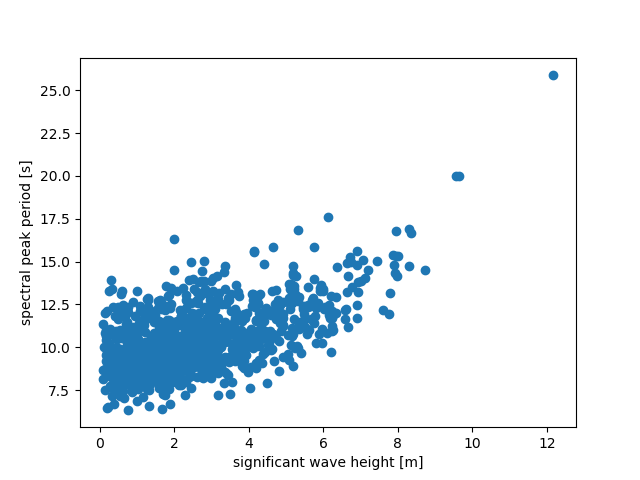
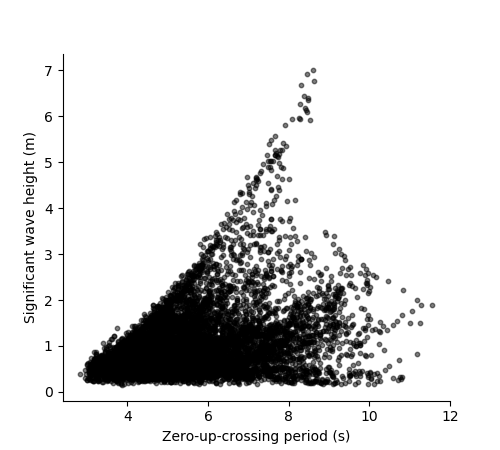
Improve readme using the new example.

Changed region(s): [[0.03, 0.0933, 0.93, 0.9956], [0.57, 0.1556, 0.63, 0.28], [0.69, 0.3422, 0.72, 0.3733]]

diff --git a/examples/fit_distribution_similar_to_docs.py b/examples/fit_distribution_similar_to_docs.py
@@ -11,7 +11,6 @@ from viroconcom.plot import SamplePlotData, plot_sample, plot_marginal_fit, \
 sample_0, sample_1, label_hs, label_tz = \
     read_ecbenchmark_dataset('datasets/1year_dataset_A.txt')
 
-
 fig, ax = plt.subplots(1, 1, figsize=(5, 4.5))
 sample_plot_data = SamplePlotData(sample_1, sample_0)
 plot_sample(sample_plot_data, ax)

diff --git a/docs/fitting.rst b/docs/fitting.rst
@@ -9,7 +9,7 @@ This module fitting_ implements the possibility to fit a probabilistc model to m
 To fit a model structure to a dataset, we need to build an object of the class ``Fit`` in this module.
 Exemplary call::
 
-    example_fit = Fit((data_1, data_2), (dist_description_0, dist_description_1), timeout=None)
+    example_fit = Fit((sample_0, sample_1), (dist_description_0, dist_description_1), timeout=None)
 
 It is important that the parameter ``samples`` is in the form (sample_0, sample_1, ...).
 Each sample is a collection of data from type *list* and also all samples have the same length. The parameter ``dist_descriptions``
@@ -43,15 +43,17 @@ The following dependence functions are available (keyword and meaning):
 Example for a ``dist_description``, that could represent the marginal
 distribution of significant wave height::
 
-	dist_description_0 = {'name': 'Weibull_Exp',
-	                      'dependency': (None, None, None)}
+    dist_description_0 = {'name': 'Weibull_Exp',
+                          'width_of_intervals': 1}
 
 Example for a ``dist_description``, that could represent the conditonal
 distribution of zero-up-crossiong period::
 
-	dist_description_1 = {'name': 'Lognormal',
-	                      'dependency': (0, None, 0),
-				          'functions': ('power3', None, 'exp3')}
+    dist_description_1 = {'name': 'Lognormal_SigmaMu',
+                          'dependency': (0,  None, 0),
+                          'functions': ('asymdecrease3', None, 'lnsquare2'),
+                          'min_datapoints_for_fit': 50
+                          }
 
 If Fit() is finished, example_fit, will have the attribute ``mul_var_dist``
 that is an object of ``MultivariateDistribution``, holding the fitted joint
@@ -71,27 +73,21 @@ Tp ::
 
     import matplotlib.pyplot as plt
     import numpy as np
-    import scipy.stats as sts
 
+    from viroconcom.read_write import read_ecbenchmark_dataset
     from viroconcom.fitting import Fit
     from viroconcom.contours import IFormContour
+    from viroconcom.plot import SamplePlotData, plot_sample, plot_marginal_fit, \
+        plot_dependence_functions, plot_contour
 
+    sample_0, sample_1, label_hs, label_tz = \
+        read_ecbenchmark_dataset('datasets/1year_dataset_A.txt')
 
-    prng = np.random.RandomState(42)
-
-    # Draw 10000 samples from a Weibull distribution with shape=1.5 and scale=3,
-    # which represents significant wave height.
-    sample_0 = prng.weibull(1.5, 10000)*3
-
-    # Let the second sample, which represents spectral peak period increase
-    # with significant wave height and follow a Lognormal distribution with
-    # mean=2 and sigma=0.2
-    sample_1 = [0.1 + 1.5 * np.exp(0.2 * point) +
-                prng.lognormal(2, 0.2) for point in sample_0]
-
-    plt.scatter(sample_0, sample_1)
-    plt.xlabel('Significant wave height (m)')
-    plt.ylabel('Spectral peak period (s)')
+    fig, ax = plt.subplots(1, 1, figsize=(5, 4.5))
+    sample_plot_data = SamplePlotData(sample_1, sample_0)
+    plot_sample(sample_plot_data, ax)
+    plt.xlabel('Zero-up-crossing period (s)')
+    plt.ylabel('Significant wave height (m)')
     plt.show()
 
 The code snipped will create this plot:
@@ -105,43 +101,25 @@ The code snipped will create this plot:
 Now we describe the type of multivariate distribution that we want to fit to this data ::
 
     dist_description_0 = {'name': 'Weibull_Exp',
-                          'dependency': (None, None, None),
-                          'width_of_intervals': 0.5}
-    dist_description_1 = {'name': 'Lognormal',
-                          'dependency': (None, None, 0),
-                          'functions': (None, None, 'exp3')}
+                          'width_of_intervals': 1}
+    dist_description_1 = {'name': 'Lognormal_SigmaMu',
+                          'dependency': (0,  None, 0),
+                          'functions': ('asymdecrease3', None, 'lnsquare2'),
+                          'min_datapoints_for_fit': 50
+                          }
 
-Based on this description, we can compute the fit ::
+Based on this description, we can compute the fit and save the two fitted
+distributions in dedicated variables ::
 
     my_fit = Fit((sample_0, sample_1), (dist_description_0, dist_description_1))
 
-Now, let us plot the fit for the first variable ::
+    fitted_hs_dist = my_fit.mul_var_dist.distributions[0]
+    fitted_tz_dist = my_fit.mul_var_dist.distributions[1]
 
-    # For panel A: use a histogram.
-    fig = plt.figure(figsize=(9, 4.5))
-    ax_1 = fig.add_subplot(121)
-    param_grid = my_fit.multiple_fit_inspection_data[0].scale_at
-    plt.hist(my_fit.multiple_fit_inspection_data[0].scale_samples[0], density=1,
-             label='sample')
-    shape = my_fit.mul_var_dist.distributions[0].shape(0)
-    scale = my_fit.mul_var_dist.distributions[0].scale(0)
-    plt.plot(np.linspace(0, 20, 100),
-             sts.weibull_min.pdf(np.linspace(0, 20, 100), c=shape, loc=0,
-                                 scale=scale),
-             label='fitted Weibull distribution')
-    plt.xlabel('significant wave height [m]')
-    plt.ylabel('probability density [-]')
-    plt.legend()
-    # For panel B: use a Q-Q plot.
-    ax_2 = fig.add_subplot(122)
-    sts.probplot(my_fit.multiple_fit_inspection_data[0].scale_samples[0],
-                 sparams=(shape, 0, scale), dist=sts.weibull_min, plot=plt)
-    ax_2.get_lines()[0].set_markerfacecolor('#1f77ba') # Adapt to v2.0 colors
-    ax_2.get_lines()[0].set_markeredgecolor('#1f77ba') # Adapt to v2.0 colors
-    ax_2.get_lines()[1].set_color('#ff7f02') # Adapt to v2.0 colors
-    plt.title("")
-    plt.xlabel('theoretical quantiles [m]')
-    plt.ylabel('data quantiles [m]')
+Now, let us plot the fit for the first variable using a QQ-plot ::
+
+    fig, ax = plt.subplots(1, 1, figsize=(5, 4.5))
+    plot_marginal_fit(sample_0, fitted_hs_dist, fig, ax, label='$h_s$ (m)', dataset_char='A')
     plt.show()
 
 
@@ -152,50 +130,17 @@ Now, let us plot the fit for the first variable ::
     Fit of the first variable, Hs.
 
 For our second variable, we need some more plots to inspect it properly.
-Let us start with the individual distributions, one for each Hs-interval ::
+Let us start with the marginal distributions that were fitted to Hs-intervals ::
 
-    fig = plt.figure(figsize=(10, 8))
-    ax_1 = fig.add_subplot(221)
-    title1 = ax_1.set_title('Tp-Distribution for 0≤Hs<2')
-    param_grid = my_fit.multiple_fit_inspection_data[1].scale_at
-    ax1_hist = ax_1.hist(my_fit.multiple_fit_inspection_data[1].scale_samples[0], density=1)
-    shape = my_fit.mul_var_dist.distributions[1].shape(0)
-    scale = my_fit.mul_var_dist.distributions[1].scale(param_grid[0])
-    ax1_plot = ax_1.plot(np.linspace(0, 20, 100), sts.lognorm.pdf(np.linspace(0, 20, 100), s=shape, scale=scale))
-
-    ax_2 = fig.add_subplot(222)
-    title2 = ax_2.set_title('Tp-Distribution for 2≤Hs<4')
-    ax2_hist = ax_2.hist(my_fit.multiple_fit_inspection_data[1].scale_samples[1], density=1)
-    shape = my_fit.mul_var_dist.distributions[1].shape(0)
-    scale = my_fit.mul_var_dist.distributions[1].scale(param_grid[1])
-    ax2_plot = ax_2.plot(np.linspace(0, 20, 100), sts.lognorm.pdf(np.linspace(0, 20, 100), s=shape, scale=scale))
-
-    ax_3 = fig.add_subplot(223)
-    title3 = ax_3.set_title('Tp-Distribution for 4≤Hs<6')
-    ax3_hist = ax_3.hist(my_fit.multiple_fit_inspection_data[1].scale_samples[2], density=1)
-    shape = my_fit.mul_var_dist.distributions[1].shape(0)
-    scale = my_fit.mul_var_dist.distributions[1].scale(param_grid[2])
-    ax3_plot = ax_3.plot(np.linspace(0, 20, 100), sts.lognorm.pdf(np.linspace(0, 20, 100), s=shape, scale=scale))
-    ax_3.set_xlabel('spectral peak period [s]')
-
-    ax_4 = fig.add_subplot(224)
-    title4 = ax_4.set_title('Tp-Distribution for 6≤Hs<8')
-    ax4_hist = ax_4.hist(my_fit.multiple_fit_inspection_data[1].scale_samples[3], density=1)
-    shape = my_fit.mul_var_dist.distributions[1].shape(0)
-    scale = my_fit.mul_var_dist.distributions[1].scale(param_grid[3])
-    ax4_plot = ax_4.plot(np.linspace(0, 20, 100), sts.lognorm.pdf(np.linspace(0, 20, 100), s=shape, scale=scale))
-    ax_4.set_xlabel('spectral peak period [s]')
-    plt.show()
-
-    fig = plt.figure()
-    x_1 = np.linspace(0, 12, 100)
-    plt.plot(param_grid, my_fit.multiple_fit_inspection_data[1].scale_value, 'x',
-             label='discrete scale values')
-    plt.plot(x_1, my_fit.mul_var_dist.distributions[1].scale(x_1),
-             label='fitted dependence function')
-    plt.xlabel('significant wave height [m]')
-    plt.ylabel('scale parameter (Tp-distribution)')
-    plt.legend()
+    n_fits = len(my_fit.multiple_fit_inspection_data[1].scale_at)
+    fig, axs = plt.subplots(1, n_fits, figsize=(14, 4))
+    for i in range(n_fits):
+            axs[i].set_title('Tz distribution for ' + str(i) + '≤Hs<' + str(i + 1))
+            axs[i].hist(my_fit.multiple_fit_inspection_data[1].scale_samples[i], density=1)
+            x = np.linspace(0, 12, 200)
+            interval_center = my_fit.multiple_fit_inspection_data[1].scale_at[i]
+            f = fitted_tz_dist.pdf(x, np.zeros(x.shape) + interval_center, (0, None, 0))
+            axs[i].plot(x, f)
     plt.show()
 
 
@@ -205,8 +150,8 @@ Let us start with the individual distributions, one for each Hs-interval ::
 
     Individual fits of second variable, Tp.
 
-Let us now inspect how well our dependence function fits to these four scale
-values, which we got from the individual distributions ::
+Let us now inspect how well our dependence functions fit to the marginal
+distributions' four scale and shape values ::
 
     fig = plt.figure()
     x_1 = np.linspace(0, 12, 100)
@@ -226,8 +171,8 @@ values, which we got from the individual distributions ::
 
     Fit of the dependence function.
 
-Finally, let us use the multivariate distribution we fitted to
-compute an environmental contour ::
+Finally, let us use the fitted joint distribution to compute an environmental
+contour ::
 
     iform_contour = IFormContour(my_fit.mul_var_dist, 25, 3, 100)
     plt.scatter(sample_0, sample_1, label='sample')
